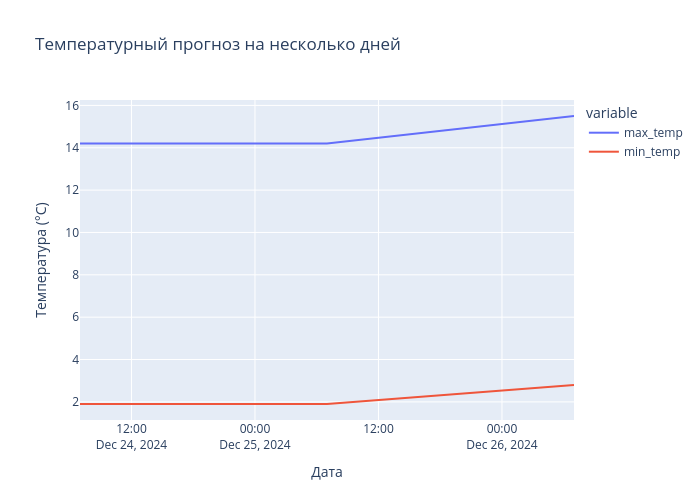
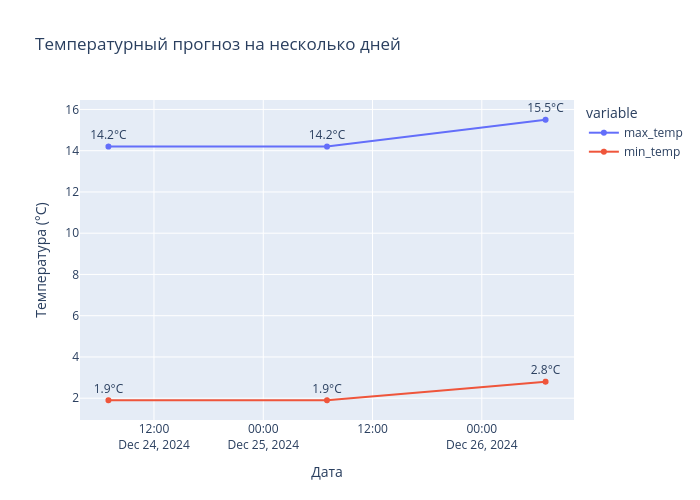
Ну вроде почти все готовв, скоро добавлю README и requirements и будет заебумба

diff --git a/bot/handlers/weather.py b/bot/handlers/weather.py
@@ -60,7 +60,7 @@ async def ask_start_city(message: Message, state: FSMContext):
     user_id = message.from_user.id
     with open(f'bot/database/database_{user_id}.json', 'w', encoding='utf-8') as db:
         json.dump({}, db, ensure_ascii=False, indent=4)
-    await message.answer('Введите пункт отправления: ')
+    await message.answer('🌆 Введите пункт отправления: ')
     await state.set_state(WeatherForm.start_city)
 
 
@@ -79,7 +79,7 @@ async def process_start_city(message: Message, state: FSMContext):
     }
     download_db(f'bot/database/database_{user_id}.json', db)
 
-    await message.answer('Введите пункт прибытия: ')
+    await message.answer('🚄 Введите пункт прибытия: ')
     await state.set_state(WeatherForm.end_city)
 
 
@@ -137,7 +137,7 @@ async def process_new_city(message: Message, state: FSMContext):
     }
     download_db(f'bot/database/database_{user_id}.json', db)
     await message.answer(
-        'Заезжаем еще куда-нибудь?',
+        '🗺 Заезжаем еще куда-нибудь?',
         reply_markup=get_confirm_keyboard()
     )
     await state.set_state(WeatherForm.confirm_new_city)
@@ -159,7 +159,7 @@ async def forecast(message: Message, state: FSMContext):
     if ans in forecast_days:
         days = forecast_days[ans]
         for city, city_data in db.items():
-            await message.answer(f"Прогноз погоды для города: {city_data['city_name']}")
+            await message.answer(f"📍 Прогноз погоды для города: {city_data['city_name']}")
             weather_data = city_data['weather_data']
             for i in range(days):
                 await send_forecast(message, weather_data[i])
@@ -167,7 +167,7 @@ async def forecast(message: Message, state: FSMContext):
             await message.answer_photo(FSInputFile(temp_path))
             await message.answer_photo(FSInputFile(rain_path))
     else:
-        await message.answer('Некорректный ввод, переделывайте')
+        await message.answer('❌ Некорректный ввод, попробуйте еще раз.')
         return
 
 
@@ -179,14 +179,14 @@ async def send_forecast(message: Message, weather_data: dict):
     day_forecast = weather_data['day_forecast']
     night_forecast = weather_data['night_forecast']
 
-    await message.answer(f"День {date}:")
-    await message.answer(f"Температура: {max_temp}\n"
-                         f"Влажность: {day_forecast['humidity']}\n"
-                         f"Скорость ветра: {day_forecast['wind_speed']}\n"
-                         f"Вероятность дождя: {day_forecast['rain_probability']}")
+    await message.answer(f"🌞 <b>День {date}:</b>", parse_mode='HTML')
+    await message.answer(f"🌡 Температура: {max_temp}°C\n"
+                         f"💧 Влажность: {day_forecast['humidity']}%\n"
+                         f"💨 Скорость ветра: {day_forecast['wind_speed']} м/с\n"
+                         f"☔ Вероятность дождя: {day_forecast['rain_probability']}%")
 
-    await message.answer("Ночь:")
-    await message.answer(f"Температура: {min_temp}\n"
-                         f"Влажность: {night_forecast['humidity']}\n"
-                         f"Скорость ветра: {night_forecast['wind_speed']}\n"
-                         f"Вероятность дождя: {night_forecast['rain_probability']}")
+    await message.answer(f"🌙 <b>Ночь:</b>", parse_mode='HTML')
+    await message.answer(f"🌡 Температура: {min_temp}°C\n"
+                         f"💧 Влажность: {night_forecast['humidity']}%\n"
+                         f"💨 Скорость ветра: {night_forecast['wind_speed']} м/с\n"
+                         f"☔ Вероятность дождя: {night_forecast['rain_probability']}%")

diff --git a/bot/utils/create_graph.py b/bot/utils/create_graph.py
@@ -23,16 +23,25 @@ def generate_graphs(user_id, city_id, days):
         title='Температурный прогноз на несколько дней'
     )
 
+    # Добавляем подписи к точкам на графике температуры
+    for trace in fig_temp.data:
+        trace.update(mode='lines+markers+text', textposition='top center')
+        trace.text = [f'{v}°C' for v in (df['max_temp'] if 'max_temp' in trace.name else df['min_temp'])]
+
     # Построение графика вероятности дождя
     fig_rain = px.bar(
         df,
         x='date',
         y=[df['day_forecast'].apply(lambda x: x['rain_probability']),
            df['night_forecast'].apply(lambda x: x['rain_probability'])],
-        labels={'value': 'Вероятность дождя (%)', 'date': 'Дата'},
+        labels={'value': 'Вероятность дождя (%)', 'date': 'Дата',
+                'wide_variable_0': 'Днем', 'wide_variable_1': 'Ночью'},
         title='Вероятность дождя на несколько дней'
     )
     fig_rain.update_layout(barmode='group', xaxis_tickangle=-45)
+
+    # Добавляем подписи к столбцам на графике вероятности дождя
+    fig_rain.update_traces(texttemplate='%{y:.0f}%', textposition='outside')
 
     # Сохранение графиков в виде изображений
     temp_path = f'bot/graphs/temp_{user_id}_{city_id}.png'
